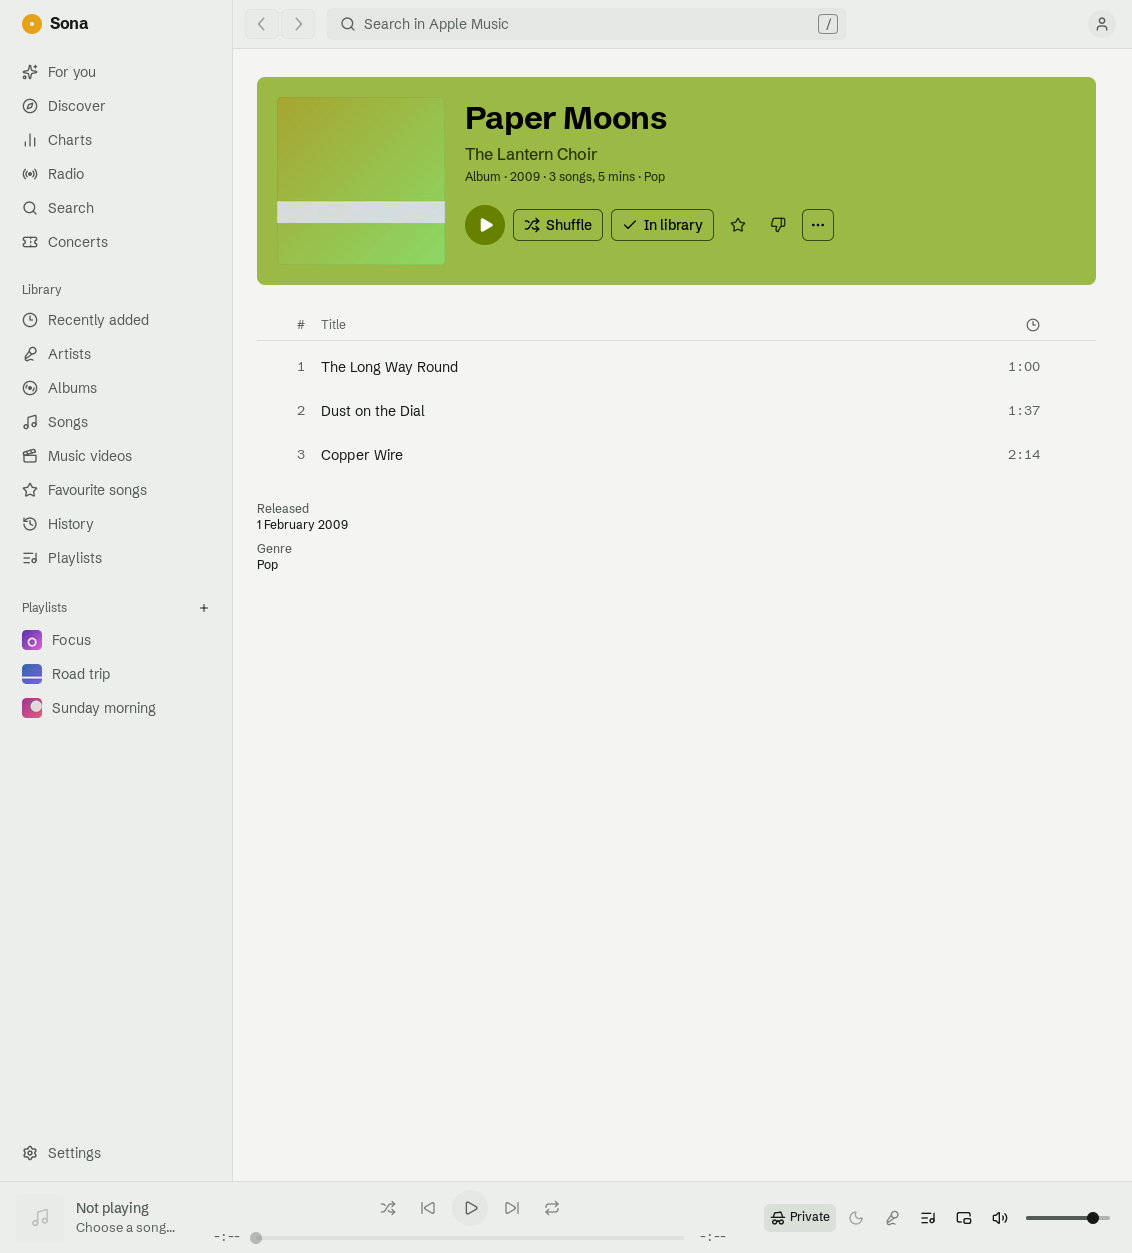
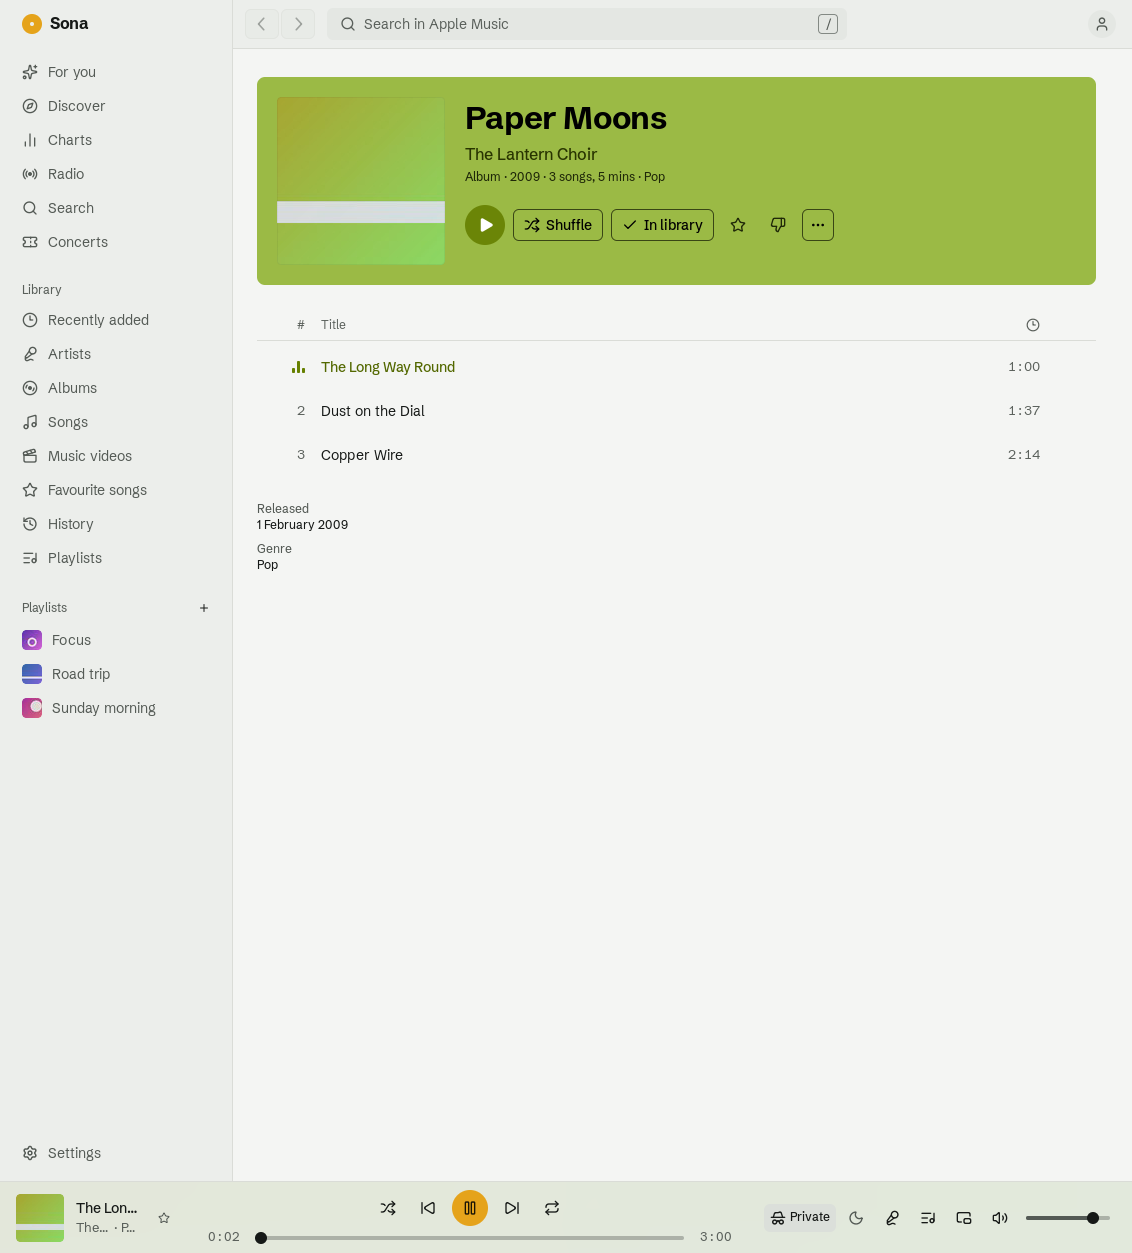
docs(redesign): the after captures, the probe results and the summary
After captures of every page (light and dark) from the redesign's probe build in headless with SONA_PREVIEW=1 SONA_PRIVATE=1, ui.Tester renders of the Widevine notice, the update notice, the private chip and the reminder entry before and after, the player and mini player captured while playing, and the Albums probe compared with b259a43.

diff --git a/docs/redesign/README.md b/docs/redesign/README.md
@@ -34,3 +34,37 @@ Each page has its own folder here with `before-*.png` and `after-*.png` captures
 | Widevine | **Inline progress.** A small meter beside the download percentage. |
 | Updates | **Release slip.** A compact card in the sidebar foot with its progress. |
 | Reminders | **Dated reminder.** The menu entry names the day and shows the bell's state. |
+
+## Result
+
+Every page package has its redesign commit on `feat/ui-redesign-pass`. No page was reverted.
+
+| Page | Commit | Captures |
+| --- | --- | --- |
+| Home | 1add20a6 | live, light and dark |
+| Discover, Charts | 533cfda6, 63f7b124 | live |
+| Search | 82534e02 | live |
+| Concerts | 94213ed2 | live |
+| Radio, Station | bf1c3c79 | live |
+| Library (8 pages, sync footer) | 88b1d1bb | live, every page |
+| Album | dcf5e35f | live, catalogue and library |
+| Artist | 83dbb820 | live |
+| Song | a45f38bb | live |
+| Music video | 3cf165ee | live (page) |
+| Playlist | 56665205 | live |
+| Player (bar, queue, Now Playing) | 7e9b279a | live, playing on the fake engine |
+| Mini player | b7b29a77 | live, its own window |
+| Equaliser | f79aa7c4 | live |
+| Settings | 6273d4aa | live, four sections |
+| Account | d9fd163d | live |
+| Commands | f9145ccf, dd6eee8c | live, palette and sheet |
+| First-run setup | 316863b4 | live, welcome and appearance |
+| Private listening | 78999843 | live bar and `ui.Tester` chip |
+| Widevine notice | a7a84799 | `ui.Tester` |
+| Update notice | 44e373f7 | `ui.Tester` |
+| Reminders | d42b9c12 | `ui.Tester` (the album menu) |
+
+- **Live captures:** the Widevine notice, the update notice and the reminder entry have no live trigger in a signed-out preview run, so their captures come from `ui.Tester` in the same `headless` session. The before captures were drawn by the same tests on b259a43.
+- **Video view:** it needs the Widevine CDM to play, so it is shown by the package's goldens (`internal/ui/features/video/testdata/golden/video-view-*`), not by a live capture.
+- **Integration commits:** 39944597 regenerates the string catalogues and the shell's goldens, and 40c63855 gives full-window goldens more time to settle under load.
+- **Scroll performance:** the Albums scroll stays within its budget (`probe.md`).

diff --git a/docs/redesign/probe.md b/docs/redesign/probe.md
@@ -15,3 +15,30 @@ The `probe` build (`-tags probe,sqlite_fts5`) scrolled the Albums page in `headl
 | Mean | 17.1 ms | 18.7 ms | |
 
 Budget (+5%): p95 ≤ 17.96 ms, worst ≤ 19.6 ms.
+
+## After the redesign
+
+The machine was shared with other work while these ran, and a busy moment inflates single runs: run 1 of the first set reads 23.6 ms p95, and its next run 19.8 ms.
+
+First set, the redesign's head alone:
+
+| Run | p95 | Worst | Dropped |
+| --- | --- | --- | --- |
+| 1 | 23.6 ms | 28.3 ms | 3 of 137 |
+| 2 | 19.8 ms | 24.8 ms | 0 of 137 |
+| 3 | 17.1 ms | 17.7 ms | 0 of 145 |
+
+So the comparison that counts alternates the two builds (`bin/sona-probe-base` from b259a43, `bin/sona-probe` from this branch), five pairs, so that the same load falls on both:
+
+| Pair | Base p95 | Base worst | Redesign p95 | Redesign worst |
+| --- | --- | --- | --- | --- |
+| 1 | 23.4 ms | 34.1 ms | 17.1 ms | 18.3 ms |
+| 2 | 17.2 ms | 18.2 ms | 17.1 ms | 17.8 ms |
+| 3 | 33.2 ms | 47.6 ms | 16.9 ms | 17.4 ms |
+| 4 | 17.0 ms | 17.7 ms | 22.4 ms | 35.4 ms |
+| 5 | 17.0 ms | 17.7 ms | 17.2 ms | 17.8 ms |
+| **Median** | **17.2 ms** | **18.2 ms** | **17.1 ms** | **17.8 ms** |
+
+- **Against the budget:** the redesign's medians are 17.1 ms p95 and 17.8 ms worst, both under the budget of 17.96 ms and 19.6 ms.
+- **Against the interleaved base:** they are also no worse than the base build's 17.2 ms and 18.2 ms.
+- **CPU work per frame:** the median is 1.30 ms for both builds.
